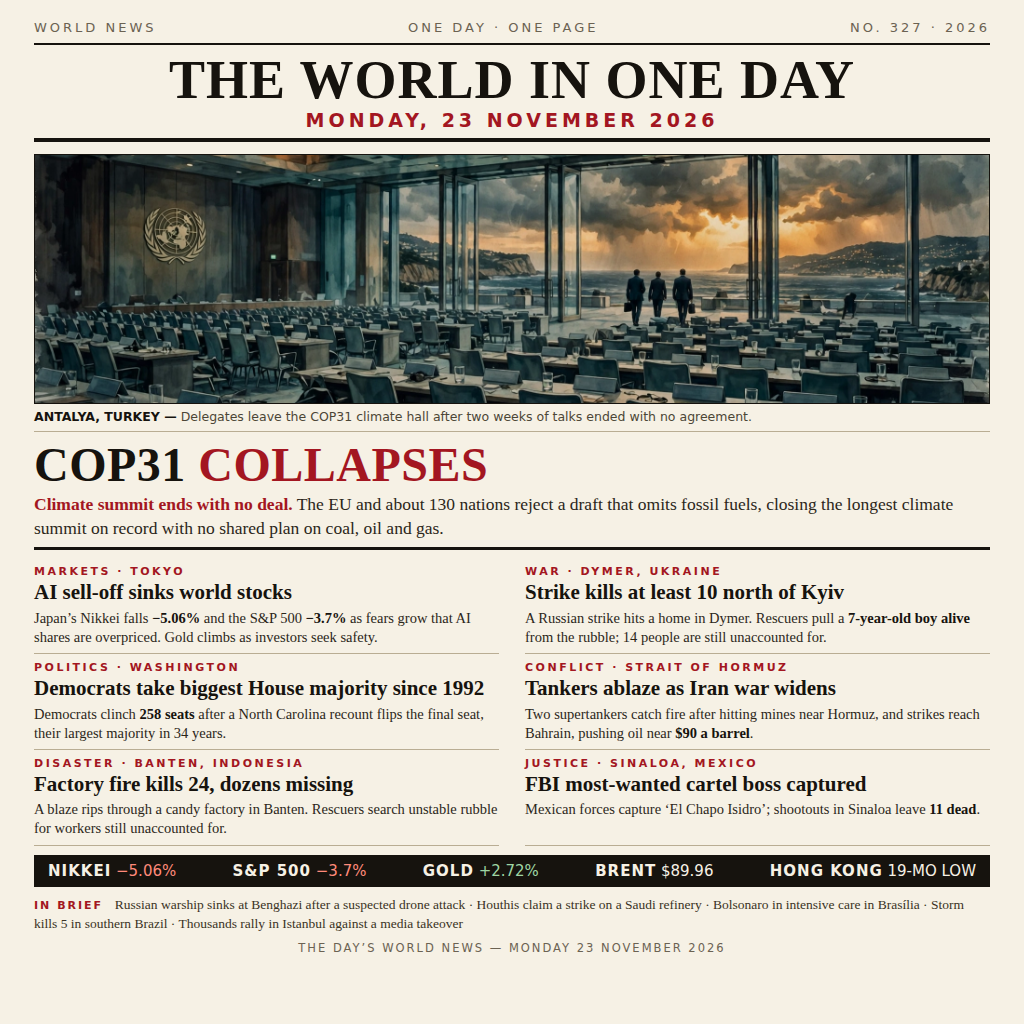
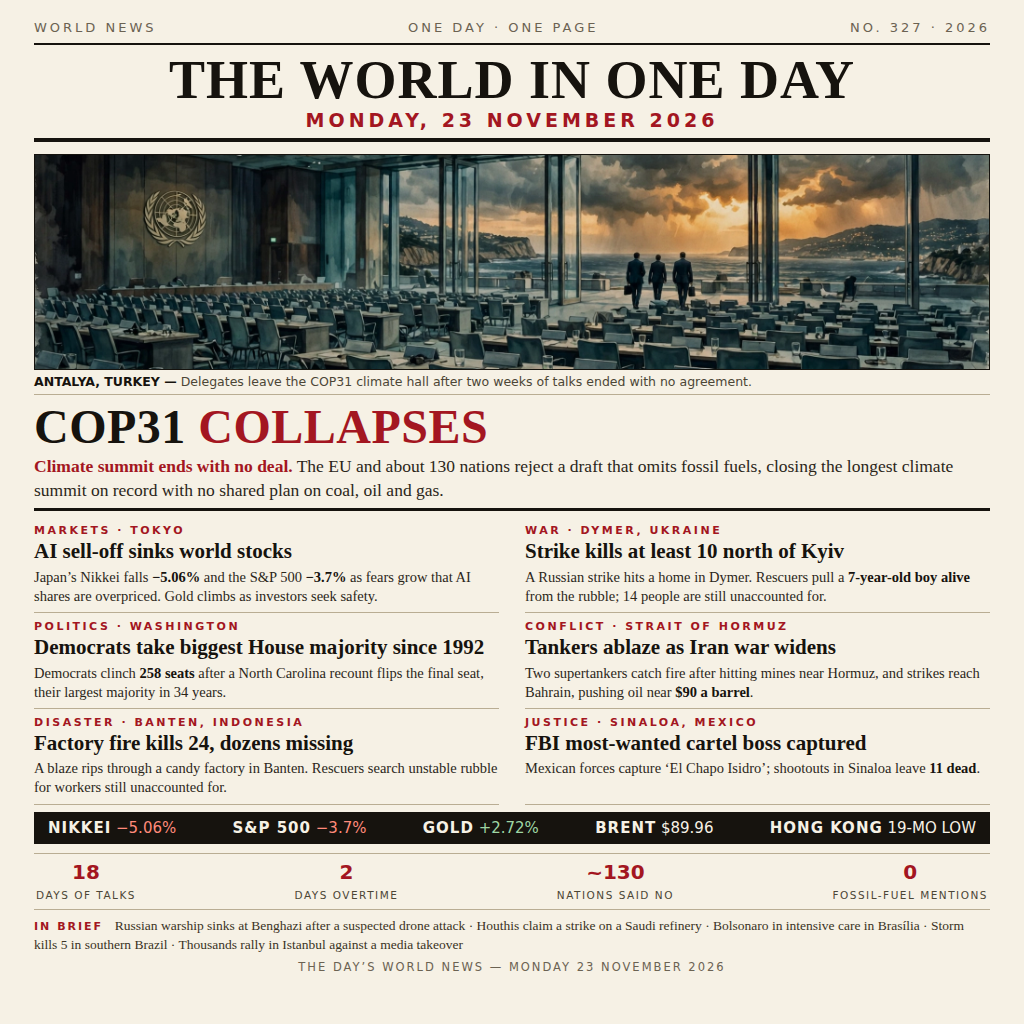
Add files via upload

diff --git a/page.html b/page.html
@@ -11,26 +11,30 @@
   h1 { font-size: 54px; line-height: 1; text-align: center; letter-spacing: 1px; margin: 8px 0 2px; }
   .dateline { text-align: center; font-family: 'DejaVu Sans', Arial, sans-serif; font-size: 19px; letter-spacing: 4px; font-weight: bold; color: #a31621; margin-bottom: 7px; }
   .rule { border: none; border-top: 4px solid #16130e; margin-bottom: 12px; }
-  .hero { width: 100%; height: 250px; object-fit: cover; display: block; border: 1px solid #16130e; }
-  .caption { font-family: 'DejaVu Sans', Arial, sans-serif; font-size: 12.5px; color: #4c4636; padding: 5px 0 7px; border-bottom: 1px solid #b9ad93; }
+  .hero { width: 100%; height: 216px; object-fit: cover; display: block; border: 1px solid #16130e; }
+  .caption { font-family: 'DejaVu Sans', Arial, sans-serif; font-size: 12.5px; color: #4c4636; padding: 4px 0 5px; border-bottom: 1px solid #b9ad93; }
   .caption b { color: #16130e; }
-  .lead { margin: 9px 0 7px; }
+  .lead { margin: 8px 0 6px; }
   .lead h2 { font-size: 48px; line-height: 0.98; letter-spacing: 0.5px; }
   .lead h2 span { color: #a31621; }
   .lead p { font-size: 17.5px; line-height: 1.35; margin-top: 5px; color: #2b2619; }
   .lead p b { color: #a31621; }
-  .grid { display: grid; grid-template-columns: 1fr 1fr; gap: 0 26px; border-top: 3px solid #16130e; padding-top: 8px; }
+  .grid { display: grid; grid-template-columns: 1fr 1fr; gap: 0 26px; border-top: 3px solid #16130e; padding-top: 6px; }
   .story { padding: 7px 0 6px; border-bottom: 1px solid #b9ad93; }
   .story .tag { font-family: 'DejaVu Sans', Arial, sans-serif; font-size: 11px; letter-spacing: 2.5px; font-weight: bold; color: #a31621; text-transform: uppercase; }
   .story h3 { font-size: 21px; line-height: 1.12; margin: 3px 0 4px; }
   .story p { font-size: 14.5px; line-height: 1.32; color: #2b2619; }
   .story p b { color: #16130e; }
-  .markets { display: flex; justify-content: space-between; background: #16130e; color: #f6f1e5; font-family: 'DejaVu Sans', Arial, sans-serif; padding: 7px 14px; margin-top: 9px; font-size: 15px; }
+  .markets { display: flex; justify-content: space-between; background: #16130e; color: #f6f1e5; font-family: 'DejaVu Sans', Arial, sans-serif; padding: 7px 14px; margin-top: 7px; font-size: 15px; }
   .markets .down { color: #ff8a7a; } .markets .up { color: #9fd6a4; }
   .markets b { letter-spacing: 1px; }
-  .brief { font-size: 13.5px; line-height: 1.45; color: #3a3324; margin-top: 8px; }
+  .numbers { display: flex; justify-content: space-between; border-top: 1px solid #b9ad93; border-bottom: 1px solid #b9ad93; padding: 6px 2px; margin-top: 9px; font-family: 'DejaVu Sans', Arial, sans-serif; }
+  .numbers div { text-align: center; }
+  .numbers b { display: block; font-size: 20px; color: #a31621; }
+  .numbers span { font-size: 10.5px; letter-spacing: 1.5px; color: #4c4636; text-transform: uppercase; }
+  .brief { font-size: 13.5px; line-height: 1.45; color: #3a3324; margin-top: 6px; }
   .brief b { font-family: 'DejaVu Sans', Arial, sans-serif; font-size: 11px; letter-spacing: 2px; color: #a31621; }
-  .foot { text-align: center; font-family: 'DejaVu Sans', Arial, sans-serif; font-size: 11.5px; letter-spacing: 2px; color: #6b6252; margin-top: 7px; text-transform: uppercase; }
+  .foot { text-align: center; font-family: 'DejaVu Sans', Arial, sans-serif; font-size: 11.5px; letter-spacing: 2px; color: #6b6252; margin-top: 5px; text-transform: uppercase; }
 </style>
 </head>
 <body>
@@ -77,6 +81,7 @@
     </div>
   </div>
   <div class="markets"><span><b>NIKKEI</b> <span class="down">&minus;5.06%</span></span><span><b>S&amp;P 500</b> <span class="down">&minus;3.7%</span></span><span><b>GOLD</b> <span class="up">+2.72%</span></span><span><b>BRENT</b> $89.96</span><span><b>HONG KONG</b> 19-MO LOW</span></div>
+  <div class="numbers"><div><b>18</b><span>Days of talks</span></div><div><b>2</b><span>Days overtime</span></div><div><b>~130</b><span>Nations said no</span></div><div><b>0</b><span>Fossil-fuel mentions</span></div></div>
   <div class="brief"><b>IN BRIEF &nbsp;</b>Russian warship sinks at Benghazi after a suspected drone attack &middot; Houthis claim a strike on a Saudi refinery &middot; Bolsonaro in intensive care in Bras&iacute;lia &middot; Storm kills 5 in southern Brazil &middot; Thousands rally in Istanbul against a media takeover</div>
   <div class="foot">The day&rsquo;s world news &mdash; Monday 23 November 2026</div>
 </body>
